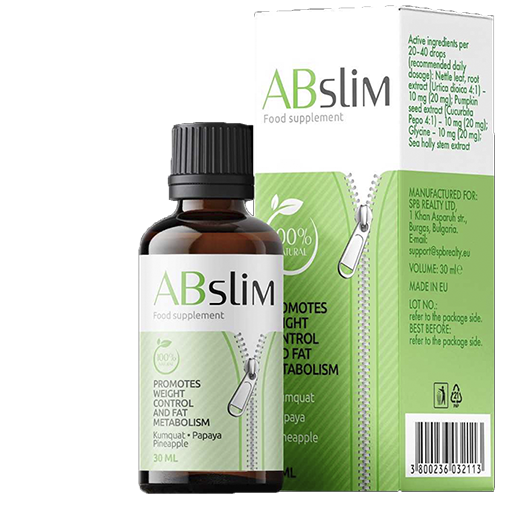
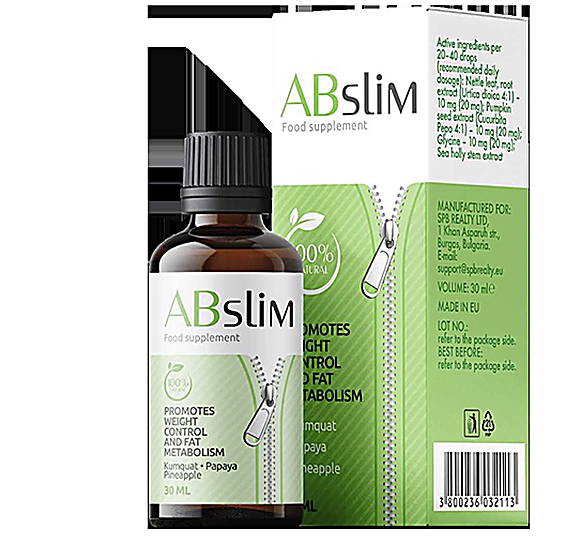
Фото Leadbit из карточек офферов (205 офферов) + хвост Shakes promo

diff --git a/lb/pulsero-gel/index.html b/lb/pulsero-gel/index.html
@@ -260,7 +260,7 @@ body.free .disc,body:not(.free) .nodisc{display:none}
       <div>
         <div class="product-card">
           <span class="disc-ribbon disc">-50%</span>
-          <img src="../../img/leadbit-pulsero-gel.png" alt="Pulsero gel">
+          <img src="../../img/lbhd-13674.png" alt="Pulsero gel">
           <div><span class="ribbon">Eredeti</span><div class="shotcap">Eredeti csomagolás zárjeggyel és gyártási számmal</div></div>
         </div>
       </div>

diff --git a/lb/slimmatica/index.html b/lb/slimmatica/index.html
@@ -260,7 +260,7 @@ body.free .disc,body:not(.free) .nodisc{display:none}
       <div>
         <div class="product-card">
           <span class="disc-ribbon disc">-50%</span>
-          <img src="../../img/cpagetti-slimmatica.png" alt="Slimmatica">
+          <img src="../../img/lbhd-16041.png" alt="Slimmatica">
           <div><span class="ribbon">Eredeti</span><div class="shotcap">Eredeti csomagolás zárjeggyel és gyártási számmal</div></div>
         </div>
       </div>

diff --git a/lb/cystiolla/index.html b/lb/cystiolla/index.html
@@ -260,7 +260,7 @@ body.free .disc,body:not(.free) .nodisc{display:none}
       <div>
         <div class="product-card">
           <span class="disc-ribbon disc">-50%</span>
-          <img src="../../img/drcash-cystiolla.png" alt="Cystiolla">
+          <img src="../../img/lbhd-19155.png" alt="Cystiolla">
           <div><span class="ribbon">Eredeti</span><div class="shotcap">Eredeti csomagolás zárjeggyel és gyártási számmal</div></div>
         </div>
       </div>

diff --git a/lb/fungizol/index.html b/lb/fungizol/index.html
@@ -260,7 +260,7 @@ body.free .disc,body:not(.free) .nodisc{display:none}
       <div>
         <div class="product-card">
           <span class="disc-ribbon disc">-50%</span>
-          <img src="../../img/leadbit-fungizol.jpg" alt="Fungizol">
+          <img src="../../img/lbhd-13732.jpeg" alt="Fungizol">
           <div><span class="ribbon">Eredeti</span><div class="shotcap">Eredeti csomagolás zárjeggyel és gyártási számmal</div></div>
         </div>
       </div>

diff --git a/lb/pulsero/index.html b/lb/pulsero/index.html
@@ -260,7 +260,7 @@ body.free .disc,body:not(.free) .nodisc{display:none}
       <div>
         <div class="product-card">
           <span class="disc-ribbon disc">-50%</span>
-          <img src="../../img/leadbit-pulsero.png" alt="Pulsero">
+          <img src="../../img/lbhd-12492.png" alt="Pulsero">
           <div><span class="ribbon">Eredeti</span><div class="shotcap">Eredeti csomagolás zárjeggyel és gyártási számmal</div></div>
         </div>
       </div>

diff --git a/lb/hondro-sol/index.html b/lb/hondro-sol/index.html
@@ -260,7 +260,7 @@ body.free .disc,body:not(.free) .nodisc{display:none}
       <div>
         <div class="product-card">
           <span class="disc-ribbon disc">-50%</span>
-          <img src="../../img/cp-10565.jpg" alt="Hondro Sol">
+          <img src="../../img/lbhd-10905.png" alt="Hondro Sol">
           <div><span class="ribbon">Eredeti</span><div class="shotcap">Eredeti csomagolás zárjeggyel és gyártási számmal</div></div>
         </div>
       </div>

diff --git a/lb/abslim/index.html b/lb/abslim/index.html
@@ -260,7 +260,7 @@ body.free .disc,body:not(.free) .nodisc{display:none}
       <div>
         <div class="product-card">
           <span class="disc-ribbon disc">-50%</span>
-          <img src="../../img/cpagetti-abslim.png" alt="ABSlim">
+          <img src="../../img/lbhd-10671.png" alt="ABSlim">
           <div><span class="ribbon">Eredeti</span><div class="shotcap">Eredeti csomagolás zárjeggyel és gyártási számmal</div></div>
         </div>
       </div>
